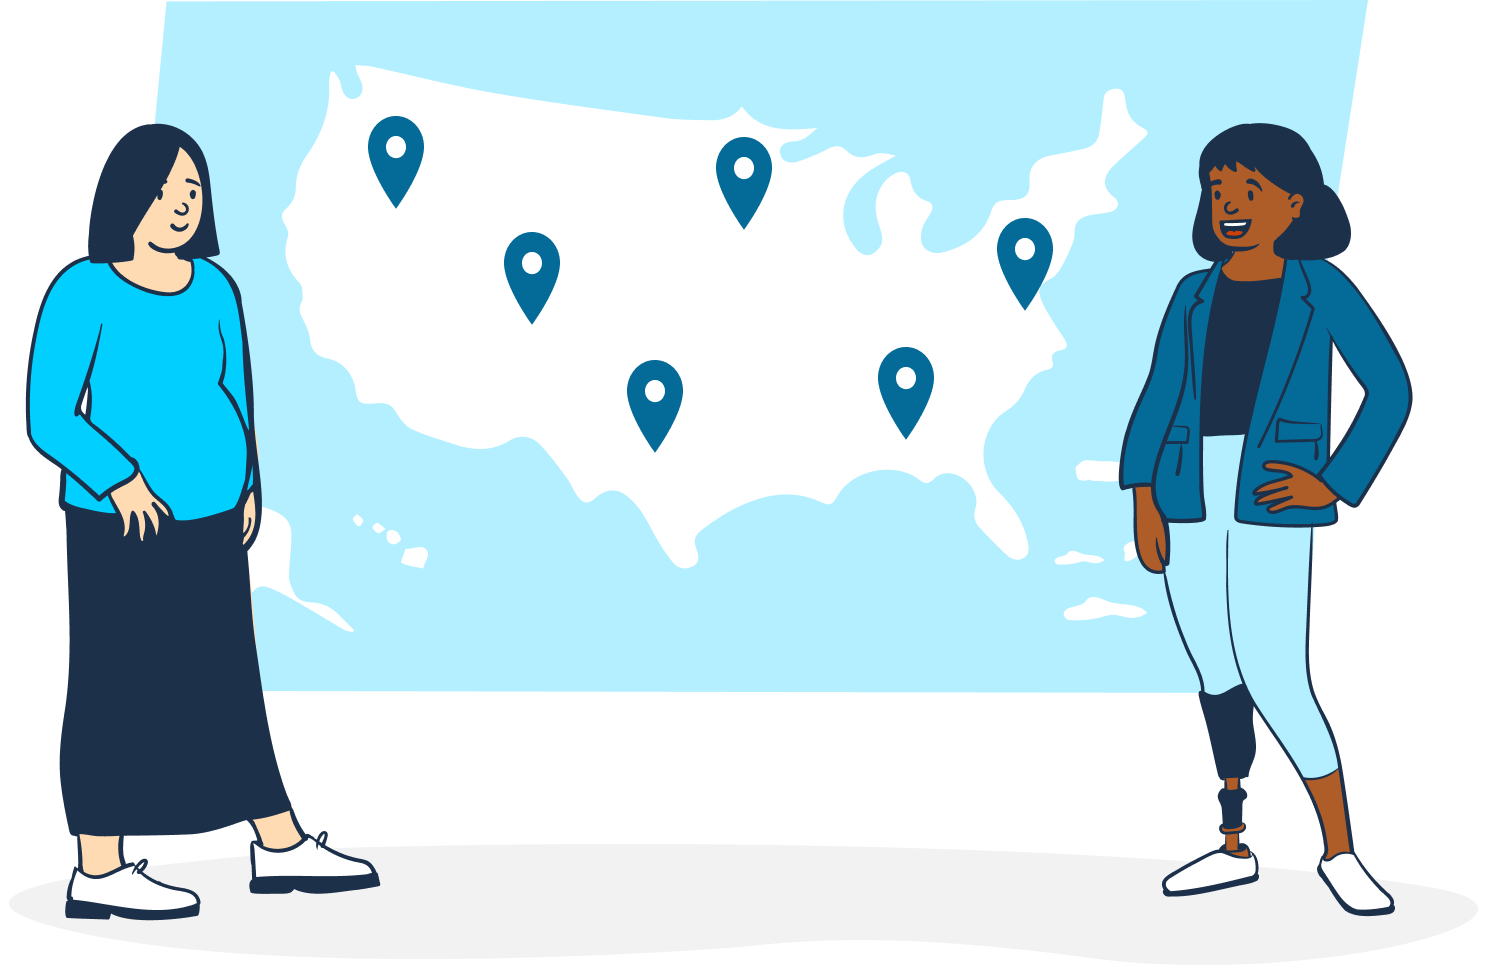
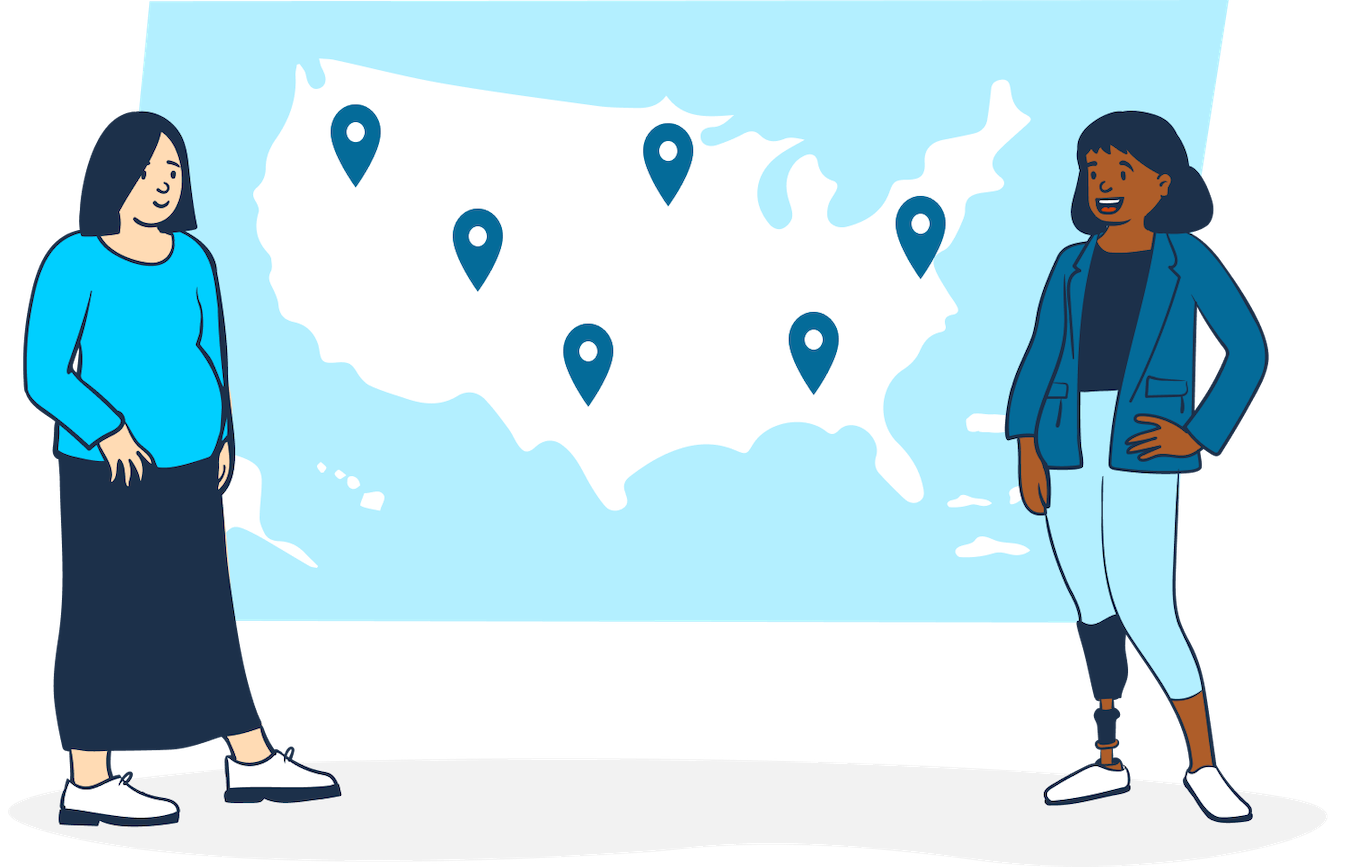
tweak image column spacing

diff --git a/content/posts/2024-10-21-18f-folks.md b/content/posts/2024-10-21-18f-folks.md
@@ -49,11 +49,11 @@ world we want to build.
 
 <figure class="no-margin">
 <div class="grid-row">
-<div class="grid-col-12 desktop:grid-col">
+<div class="grid-col-12 desktop:grid-col-6">
 {% image "assets/blog/18f-folks/dc-walking.png" "A cartoon vignette with two people walking, with government buildings and trees in the background" %}
 </div>
 
-<div class="grid-col-12 desktop:grid-col">
+<div class="grid-col-12 desktop:grid-offset-1 desktop:grid-col-5">
 {% image "assets/blog/18f-folks/us-map.png" "Two people standing in front of a map of the US. One person appears pregnant, the other has a prosthetic leg." %}
 </div>
 </div>
@@ -106,12 +106,12 @@ dress, physical abilities, and body types.
 
 <div class="grid-row">
 
-<div class="grid-col-12 desktop:grid-col">
-{% image "assets/blog/18f-folks/custom2.png" "A pregnant woman stands next to a child in 18F Folks illustration style" %}
+<div class="grid-col-12 desktop:grid-offset-1 desktop:grid-col-6 display-flex flex-row">
+{% image_with_class "assets/blog/18f-folks/custom2.png" "flex-align-self-center" "Two cartoon characters talking.  One wears a shirt with 18F, the other a shirt with a rainbow flag." %}
 </div>
 
-<div class="grid-col-12 desktop:grid-col">
-{% image "assets/blog/18f-folks/custom.png" "Two cartoon characters talking.  One wears a shirt with 18F, the other a shirt with a rainbow flag." %}
+<div class="grid-col-12 desktop:grid-col-5">
+{% image "assets/blog/18f-folks/custom.png" "A pregnant woman stands next to a child in 18F Folks illustration style" %}
 </div>
 
 </div>
